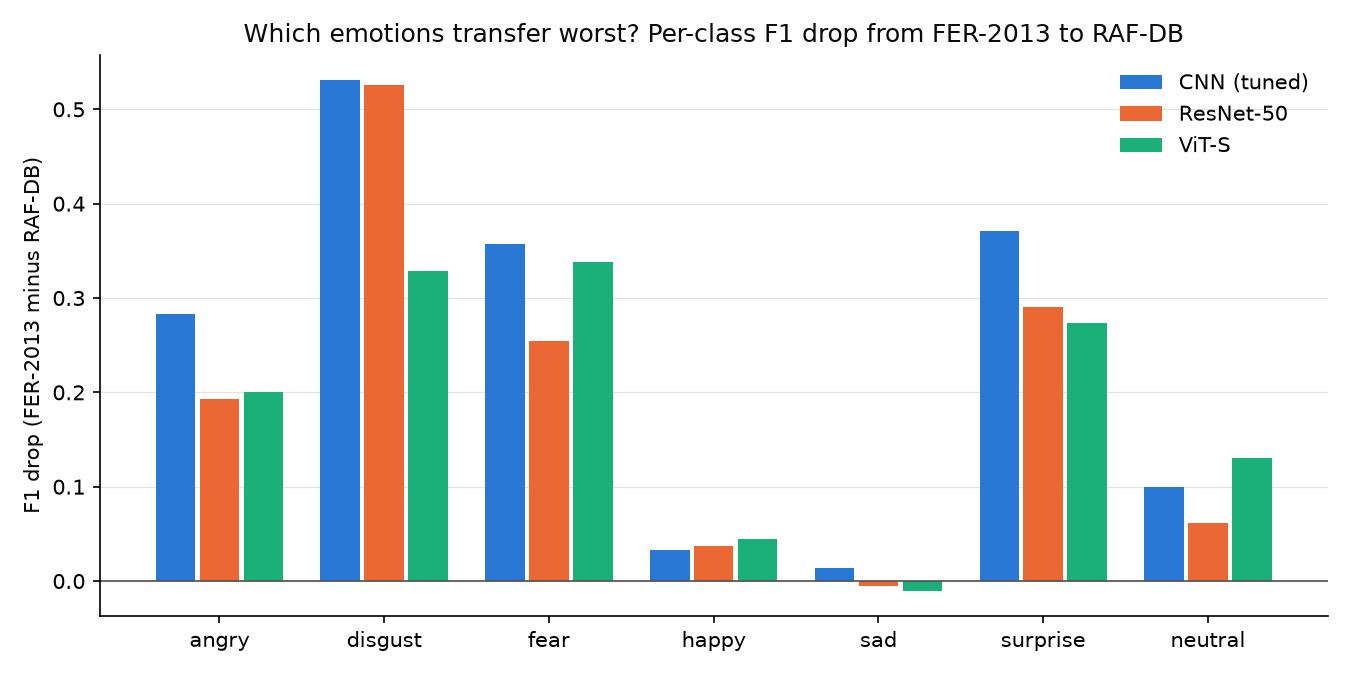
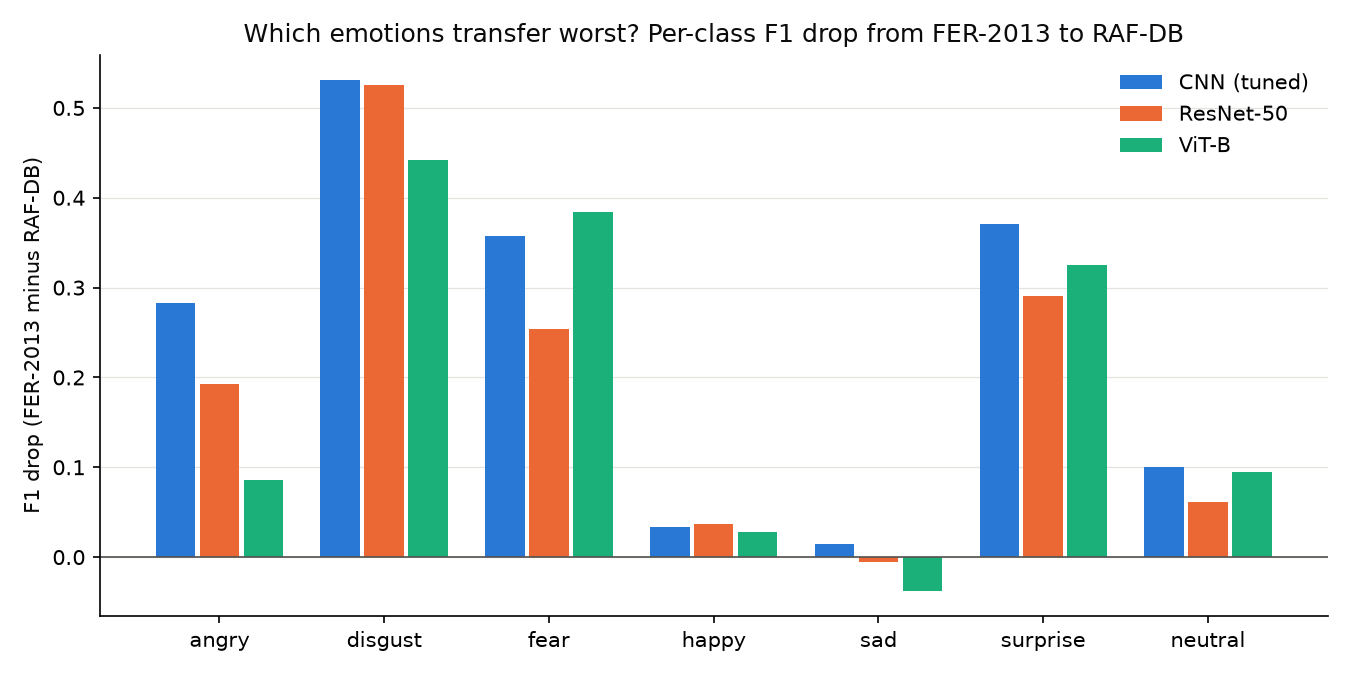
Switch to ViT-B as the selected ViT in README, intro and cross-dataset analysis
- cross_dataset: default focus is now cnn_best / resnet50 / vit; ViT-S lr 1e-4 and ViT-B added to the table
- README: ViT-B results row, in-domain tie and gender-gap bullets, links to final_comparison,
  tuning write-ups and demo; usage uses configs/vit.yaml; new config keys documented
- intro: all three families tuned and selected the same way; gender gap 7-10 points

diff --git a/src/cross_dataset.py b/src/cross_dataset.py
@@ -8,8 +8,8 @@ Reads each run's eval_fer2013/ and eval_rafdb/ (metrics.json, confusion.csv) and
   confusion_shift.csv       off-diagonal cells that grow the most from FER-2013 to RAF-DB
 
     python -m src.cross_dataset                      # default runs
-    python -m src.cross_dataset --runs results/cnn_best results/resnet50 results/vit_small \
-        --focus results/cnn_best results/resnet50 results/vit_small
+    python -m src.cross_dataset --runs results/cnn_best results/resnet50 results/vit \
+        --focus results/cnn_best results/resnet50 results/vit
 
 confusion.csv is written by src.evaluate. For older runs, --from-predictions builds it from a local
 predictions.csv first (the per-image file is never committed, only the aggregate counts).
@@ -28,12 +28,12 @@ from sklearn.metrics import confusion_matrix
 from .datasets import CLASSES
 
 DATASETS = ("fer2013", "rafdb")
-DEFAULT_RUNS = ["cnn", "cnn_best", "resnet", "resnet_224", "resnet_frozen", "resnet50", "vit_small"]
-DEFAULT_FOCUS = ["cnn_best", "resnet50", "vit_small"]
+DEFAULT_RUNS = ["cnn", "cnn_best", "resnet", "resnet_224", "resnet_frozen", "resnet50", "vit_small", "vit_small_lr1e4", "vit"]
+DEFAULT_FOCUS = ["cnn_best", "resnet50", "vit"]  # the three selected models
 LABELS = {
     "cnn": "CNN baseline", "cnn_best": "CNN (tuned)", "resnet": "ResNet-18",
     "resnet_224": "ResNet-18 224px", "resnet_frozen": "ResNet-18 frozen", "resnet50": "ResNet-50",
-    "vit_small": "ViT-S",
+    "vit_small": "ViT-S baseline", "vit_small_lr1e4": "ViT-S lr 1e-4", "vit": "ViT-B",
 }
 SERIES = ["#2a78d6", "#eb6834", "#1baf7a", "#6250d6"]  # fixed order: one colour per focus model
 INK, MUTED = "#0b0b0b", "#52514e"

diff --git a/results/cross_dataset_analysis.md b/results/cross_dataset_analysis.md
@@ -8,8 +8,8 @@ python -m src.cross_dataset
 ```
 
 which writes `results/cross_dataset/`: `cross_dataset.md` / `.csv` (overall table), `per_class.csv`,
-`per_class_drop.png`, `confusion_compare.png` and `confusion_shift.csv`. ViT rows and bars appear
-automatically once `results/vit_small/` has both evaluations.
+`per_class_drop.png`, `confusion_compare.png` and `confusion_shift.csv`. The three selected models are
+`cnn_best`, `resnet50` and `vit` (ViT-B), each chosen on FER-2013 validation macro-F1.
 
 ## 1. Overall: accuracy hides most of the transfer loss
 
@@ -21,21 +21,22 @@ automatically once `results/vit_small/` has both evaluations.
 | ResNet-18, 224px (`resnet_224`) | 70.3% / 0.675 / 69.6% | 61.3% / 0.465 / 49.9% | 9.0 | 0.210 | 19.6 |
 | ResNet-18, frozen backbone | 34.5% / 0.316 / 37.8% | 36.5% / 0.233 / 24.9% | -2.0 | 0.083 | 12.9 |
 | **ResNet-50 (`resnet50`)** | 70.1% / 0.687 / 68.7% | 64.2% / 0.493 / 53.5% | 5.9 | 0.194 | 15.2 |
-| ViT-S, untuned (`vit_small`) | 70.1% / 0.661 / 69.1% | 62.8% / 0.475 / 50.7% | 7.4 | 0.186 | 18.4 |
+| ViT-S baseline (`vit_small`) | 70.1% / 0.661 / 69.1% | 62.8% / 0.475 / 50.7% | 7.4 | 0.186 | 18.4 |
+| ViT-S, lr 1e-4 (`vit_small_lr1e4`) | 71.1% / 0.682 / 70.0% | 63.8% / 0.485 / 52.3% | 7.3 | 0.197 | 17.7 |
+| **ViT-B (`vit`)** | 70.7% / 0.679 / 69.7% | 64.7% / 0.490 / 52.3% | 6.0 | 0.189 | 17.4 |
 
-Bold rows are the configurations selected on FER-2013 validation macro-F1; ViT-S is a single untuned
-baseline run. Balanced accuracy is the mean per-class recall.
+Bold rows are the configurations selected on FER-2013 validation macro-F1 (`results/cnn_tuning.md`,
+`resnet_tuning.md`, `vit_tuning.md`). Balanced accuracy is the mean per-class recall.
 
 - **Accuracy understates the loss.** RAF-DB's test set is 39% happy, and happy is the one class that
   transfers almost perfectly (section 2). Measured by balanced accuracy, every trained model loses
   15-22 points, not the 2.5-9 points accuracy suggests. Even the CNN baseline, whose accuracy drops
   only 2.5 points, loses 16.5 points of balanced accuracy.
-- **Of the two selected models, ResNet-50 transfers better** on every measure (balanced-accuracy drop
-  15.2 vs 21.7 points). The untuned CNN baseline transfers about as well (16.5), so this is not a clean
-  "bigger pretrained model transfers better" result (see `report/results_and_discussion.md`).
-- **ViT-S sits in between** (balanced-accuracy drop 18.4): it matches ResNet-50 on FER-2013 accuracy but
-  scores lower on RAF-DB and loses more balanced accuracy (its macro-F1 drop, 0.186, is slightly smaller
-  than ResNet-50's 0.194). With one untuned run, this does not show how a tuned ViT would compare.
+- **The two pretrained models transfer better than the tuned CNN.** Among the selected models, ResNet-50
+  and ViT-B lose 15.2 and 17.4 points of balanced accuracy, against 21.7 for the CNN, and reach RAF-DB
+  macro-F1 0.493 and 0.490 against 0.443. ResNet-50 and ViT-B are within noise of each other. The
+  untuned CNN baseline transfers about as well as either (16.5), so this is not a clean "pretraining
+  transfers better" result: tuning the CNN on FER-2013 is what hurt it (see `report/results_and_discussion.md`).
 - The frozen-backbone model's small drop reflects that it is weak on both datasets, not that it transfers well.
 
 ## 2. Which emotions transfer worst?
@@ -44,29 +45,29 @@ baseline run. Balanced accuracy is the mean per-class recall.
 
 Per-class F1, FER-2013 -> RAF-DB (change in brackets):
 
-| Emotion | RAF-DB n | CNN, tuned | ResNet-50 | ViT-S (untuned) |
+| Emotion | RAF-DB n | CNN, tuned | ResNet-50 | ViT-B |
 |---|---|---|---|---|
-| angry | 162 | 0.64 -> 0.36 (-0.28) | 0.64 -> 0.45 (-0.19) | 0.62 -> 0.42 (-0.20) |
-| disgust | 160 | 0.66 -> 0.13 (-0.53) | 0.68 -> 0.16 (-0.53) | 0.51 -> 0.18 (-0.33) |
-| fear | 74 | 0.55 -> 0.19 (-0.36) | 0.54 -> 0.29 (-0.25) | 0.53 -> 0.19 (-0.34) |
-| happy | 1185 | 0.88 -> 0.85 (-0.03) | 0.88 -> 0.85 (-0.04) | 0.89 -> 0.85 (-0.04) |
-| sad | 478 | 0.57 -> 0.56 (-0.01) | 0.58 -> 0.59 (+0.01) | 0.58 -> 0.59 (+0.01) |
-| surprise | 329 | 0.81 -> 0.44 (-0.37) | 0.81 -> 0.52 (-0.29) | 0.81 -> 0.54 (-0.27) |
-| neutral | 680 | 0.67 -> 0.57 (-0.10) | 0.67 -> 0.61 (-0.06) | 0.68 -> 0.55 (-0.13) |
+| angry | 162 | 0.64 -> 0.36 (-0.28) | 0.64 -> 0.45 (-0.19) | 0.63 -> 0.55 (-0.09) |
+| disgust | 160 | 0.66 -> 0.13 (-0.53) | 0.68 -> 0.16 (-0.53) | 0.58 -> 0.14 (-0.44) |
+| fear | 74 | 0.55 -> 0.19 (-0.36) | 0.54 -> 0.29 (-0.25) | 0.57 -> 0.19 (-0.38) |
+| happy | 1185 | 0.88 -> 0.85 (-0.03) | 0.88 -> 0.85 (-0.04) | 0.90 -> 0.87 (-0.03) |
+| sad | 478 | 0.57 -> 0.56 (-0.01) | 0.58 -> 0.59 (+0.01) | 0.57 -> 0.60 (+0.04) |
+| surprise | 329 | 0.81 -> 0.44 (-0.37) | 0.81 -> 0.52 (-0.29) | 0.81 -> 0.49 (-0.33) |
+| neutral | 680 | 0.67 -> 0.57 (-0.10) | 0.67 -> 0.61 (-0.06) | 0.69 -> 0.60 (-0.10) |
 
-- **Happy, sad and neutral transfer** (F1 change of 0.10 or less for the two selected models). These are the three
+- **Happy, sad and neutral transfer** (F1 change of 0.10 or less for all three selected models). These are the three
   largest RAF-DB classes, which is why accuracy holds up.
-- **Disgust collapses** in both selected models (F1 -0.53; recall 0.70 -> 0.10 for the CNN, 0.68 -> 0.10 for
-  ResNet-50). It has the lowest RAF-DB F1 of any emotion for every fully trained model, and the largest
-  drop for all of them except ViT-S, where fear drops slightly more (-0.34 vs -0.33). (The frozen-backbone
-  run is weak everywhere and follows neither pattern.)
-- **Surprise, fear and angry also lose 0.19-0.37 F1.** ResNet-50 loses less than the CNN on each of
-  them; that, not happy/sad/neutral, is where its better transfer comes from.
-- **ViT-S follows the same pattern.** Its smaller disgust drop (-0.33) is because it starts lower on
-  FER-2013 (0.51); on RAF-DB it ends at about the same level (0.18). Its neutral F1 drop (-0.13) is the
-  largest of any model. ViT-S is not in the confusion comparison below until its `confusion.csv`
-  files are committed (`python -m src.cross_dataset --from-predictions` on the machine with its
-  `predictions.csv`).
+- **Disgust collapses** in all three selected models (F1 -0.44 to -0.53; recall falls from about 0.70 to
+  0.10 in each). It has the lowest RAF-DB F1 of any emotion for every fully trained model, and the largest
+  drop for all of them except the ViT-S baseline, where fear drops slightly more (-0.34 vs -0.33). (The
+  frozen-backbone run is weak everywhere and follows neither pattern.)
+- **Surprise and fear also lose 0.25-0.38 F1 in every selected model.** Angry is where the models differ
+  most: ViT-B keeps it (-0.09, precision 0.45 on RAF-DB), ResNet-50 loses 0.19 and the CNN 0.28. The
+  pretrained models' better transfer comes from these minority emotions, not from happy, sad and neutral.
+- ViT-B has the largest fear drop of the three (-0.38): its FER-2013 fear recall is the highest (0.62)
+  but falls to 0.39 on RAF-DB, below ResNet-50, which keeps fear recall at 0.50. ViT-B is not in the confusion comparison
+  below until its `confusion.csv` files are committed (`python -m src.cross_dataset --from-predictions`
+  on the machine with its `predictions.csv`).
 
 ## 3. How the errors change (confusion matrices)
 
@@ -87,7 +88,7 @@ confusions that become more common on RAF-DB. The largest increases (`confusion_
    (about 0.2) and grows on RAF-DB. FER-2013 has only 436 disgust images in its official training set (392 after our validation split, 1.5%), so the
    models' notion of disgust is narrow, and RAF-DB's disgust faces mostly fall outside it.
 2. **Surprise is under-predicted, not mislabelled at random.** On RAF-DB, surprise recall falls to
-   0.29 (CNN) / 0.38 (ResNet-50) while precision stays high (0.91 / 0.83): when the models say
+   0.29 (CNN) / 0.38 (ResNet-50) / 0.33 (ViT-B) while precision stays high (0.91 / 0.83 / 0.94): when the models say
    "surprise" they are usually right, but most surprised faces are called neutral, angry or fear.
    The CNN predicts surprise only 105 times, against 329 truly surprised faces.
 3. **The CNN over-predicts anger on RAF-DB.** It labels 484 test images angry against 162 true angry

diff --git a/README.md b/README.md
@@ -22,7 +22,7 @@ Put the datasets in `data/` as described in [data/README.md](data/README.md).
 # 1. train: results/<run-name>/ gets config.yaml, history.csv, best.pt
 python -m src.train --config configs/cnn_best.yaml --run-name cnn_best
 python -m src.train --config configs/resnet50.yaml --run-name resnet50
-python -m src.train --config configs/vit_small.yaml --run-name vit_small
+python -m src.train --config configs/vit.yaml --run-name vit
 
 # 2. evaluate: in-domain, then cross-dataset + subgroup audit
 python -m src.evaluate --run results/cnn_best --dataset fer2013
@@ -30,7 +30,7 @@ python -m src.evaluate --run results/cnn_best --dataset rafdb
 
 # 3. compare models: cross-dataset table, per-emotion drop, confusion shift; bias gap table
 python -m src.cross_dataset
-python -m src.bias_report --runs results/cnn_best results/resnet50 results/vit_small
+python -m src.bias_report --runs results/cnn_best results/resnet50 results/vit
 
 # 4. saliency maps
 python -m src.explain --run results/cnn_best --dataset fer2013
@@ -55,18 +55,21 @@ Optional keys (defaults reproduce the baselines):
 | `model.dropout` | `0.4` | CNN classifier dropout |
 | `model.block_dropout` | `0.25` | CNN dropout after each conv block |
 | `train.class_weights` | `true` | inverse-frequency class weights in the loss |
+| `model.freeze_backbone` | `false` | ResNet: train only the new classifier head |
+| `model.freeze_blocks` | `0` | ViT: freeze the patch embedding and the first n transformer blocks |
+| `train.layer_decay` | off | ViT: layer-wise LR decay (earlier blocks get a smaller LR) |
 
 ## Results
 
 Trained on FER-2013, tested on the FER-2013 test set (in-domain) and the RAF-DB test set (cross-dataset,
-never used for training or model selection). The CNN and ResNet rows are the configurations selected on
-FER-2013 validation macro-F1; ViT-S is a single untuned baseline run, so its row is indicative.
+never used for training or model selection). Each row is the configuration selected on FER-2013
+validation macro-F1 from that family's tuning runs.
 
 | Model | FER-2013 acc / macro-F1 | RAF-DB acc / macro-F1 | Balanced-acc drop | Gender gap (F-M) | Age gap |
 |---|---|---|---|---|---|
 | CNN from scratch (`cnn_best`) | 70.2% / 0.684 | 61.2% / 0.443 | 21.7 pts | 10.4 pts | 15.2 pts |
 | ResNet-50, ImageNet-pretrained (`resnet50`) | 70.1% / 0.687 | 64.2% / 0.493 | 15.2 pts | 8.1 pts | 11.7 pts |
-| ViT-S, ImageNet-pretrained, untuned (`vit_small`) | 70.1% / 0.661 | 62.8% / 0.475 | 18.4 pts | 5.4 pts | 14.6 pts |
+| ViT-B, ImageNet-pretrained (`vit`) | 70.7% / 0.679 | 64.7% / 0.490 | 17.4 pts | 7.3 pts | 12.7 pts |
 
 - **Cross-dataset transfer is the main weakness.** Balanced accuracy (mean per-class recall) falls by
   15-22 points on RAF-DB; plain accuracy hides much of this because RAF-DB is 39% happy, the class that
@@ -74,13 +77,19 @@ FER-2013 validation macro-F1; ViT-S is a single untuned baseline run, so its row
   fear and anger also drop sharply. Details: [results/cross_dataset_analysis.md](results/cross_dataset_analysis.md).
 - **In-domain gains did not transfer.** Tuning the CNN raised FER-2013 accuracy from 67.6% to 70.2% but
   lowered RAF-DB accuracy from 65.1% to 61.2% ([results/cnn_tuning.md](results/cnn_tuning.md)).
-- **Every model is less accurate on men than on women** (8-10 points for the CNN and ResNets, 5.4 for
-  ViT-S; all p < 0.01). Fine-tuning on RAF-DB
+- **In-domain the three models are tied** (70.1-70.7% accuracy, macro-F1 0.679-0.687, one seed each).
+  The two pretrained models transfer better than the tuned CNN, but the untuned CNN baseline transfers
+  about as well as either.
+- **Every model is less accurate on men than on women** (7-10 points for the three selected models,
+  p < 0.001). Fine-tuning on RAF-DB
   halves the gap; subgroup-balanced sampling adds little on top
   ([results/resnet_mitigation.md](results/resnet_mitigation.md)).
 
 Gaps are best-minus-worst group accuracy on RAF-DB; see [results/bias_report/](results/bias_report/) for
-intervals and p-values, and [results/resnet_tuning.md](results/resnet_tuning.md) for the ResNet runs.
+intervals and p-values. All runs side by side: [results/final_comparison.csv](results/final_comparison.csv)
+([notebooks/02_results.ipynb](notebooks/02_results.ipynb)); tuning: [CNN](results/cnn_tuning.md),
+[ResNet](results/resnet_tuning.md), [ViT](results/vit_tuning.md). To try a model on your own face photo, see
+[notebooks/03_demo.ipynb](notebooks/03_demo.ipynb).
 FER-2013 test numbers are slightly optimistic because about 7% of its test images also appear in training.
 
 ## Labels

diff --git a/results/cross_dataset/cross_dataset.md b/results/cross_dataset/cross_dataset.md
@@ -12,16 +12,18 @@ Balanced accuracy is the mean per-class recall; unlike accuracy it is not inflat
 | ResNet-18 224px (`resnet_224`) | 70.3% / 0.675 / 69.6% | 61.3% / 0.465 / 49.9% | 9.0 | 0.210 | 19.6 |
 | ResNet-18 frozen (`resnet_frozen`) | 34.5% / 0.316 / 37.8% | 36.5% / 0.233 / 24.9% | -2.0 | 0.083 | 12.9 |
 | ResNet-50 (`resnet50`) | 70.1% / 0.687 / 68.7% | 64.2% / 0.493 / 53.5% | 5.9 | 0.194 | 15.2 |
-| ViT-S (`vit_small`) | 70.1% / 0.661 / 69.1% | 62.8% / 0.475 / 50.7% | 7.4 | 0.186 | 18.4 |
+| ViT-S baseline (`vit_small`) | 70.1% / 0.661 / 69.1% | 62.8% / 0.475 / 50.7% | 7.4 | 0.186 | 18.4 |
+| ViT-S lr 1e-4 (`vit_small_lr1e4`) | 71.1% / 0.682 / 70.0% | 63.8% / 0.485 / 52.3% | 7.3 | 0.197 | 17.7 |
+| ViT-B (`vit`) | 70.7% / 0.679 / 69.7% | 64.7% / 0.490 / 52.3% | 6.0 | 0.189 | 17.4 |
 
 ## Per-emotion F1 (FER-2013 -> RAF-DB)
 
-| Emotion | RAF-DB n | CNN (tuned) | ResNet-50 | ViT-S |
+| Emotion | RAF-DB n | CNN (tuned) | ResNet-50 | ViT-B |
 |---|---|---|---|---|
-| angry | 162 | 0.64 -> 0.36 (-0.28) | 0.64 -> 0.45 (-0.19) | 0.62 -> 0.42 (-0.20) |
-| disgust | 160 | 0.66 -> 0.13 (-0.53) | 0.68 -> 0.16 (-0.53) | 0.51 -> 0.18 (-0.33) |
-| fear | 74 | 0.55 -> 0.19 (-0.36) | 0.54 -> 0.29 (-0.25) | 0.53 -> 0.19 (-0.34) |
-| happy | 1185 | 0.88 -> 0.85 (-0.03) | 0.88 -> 0.85 (-0.04) | 0.89 -> 0.85 (-0.04) |
-| sad | 478 | 0.57 -> 0.56 (-0.01) | 0.58 -> 0.59 (+0.01) | 0.58 -> 0.59 (+0.01) |
-| surprise | 329 | 0.81 -> 0.44 (-0.37) | 0.81 -> 0.52 (-0.29) | 0.81 -> 0.54 (-0.27) |
-| neutral | 680 | 0.67 -> 0.57 (-0.10) | 0.67 -> 0.61 (-0.06) | 0.68 -> 0.55 (-0.13) |
+| angry | 162 | 0.64 -> 0.36 (-0.28) | 0.64 -> 0.45 (-0.19) | 0.63 -> 0.55 (-0.09) |
+| disgust | 160 | 0.66 -> 0.13 (-0.53) | 0.68 -> 0.16 (-0.53) | 0.58 -> 0.14 (-0.44) |
+| fear | 74 | 0.55 -> 0.19 (-0.36) | 0.54 -> 0.29 (-0.25) | 0.57 -> 0.19 (-0.38) |
+| happy | 1185 | 0.88 -> 0.85 (-0.03) | 0.88 -> 0.85 (-0.04) | 0.90 -> 0.87 (-0.03) |
+| sad | 478 | 0.57 -> 0.56 (-0.01) | 0.58 -> 0.59 (+0.01) | 0.57 -> 0.60 (+0.04) |
+| surprise | 329 | 0.81 -> 0.44 (-0.37) | 0.81 -> 0.52 (-0.29) | 0.81 -> 0.49 (-0.33) |
+| neutral | 680 | 0.67 -> 0.57 (-0.10) | 0.67 -> 0.61 (-0.06) | 0.69 -> 0.60 (-0.10) |

diff --git a/report/introduction_related_work_data.md b/report/introduction_related_work_data.md
@@ -24,19 +24,20 @@ scratch and two ImageNet-pretrained architectures. We study them along three axe
 3. **Bias.** Using RAF-DB's gender, race and age annotations, do accuracy gaps between demographic
    groups exist, are they statistically supported, and does subgroup-balanced fine-tuning reduce them?
 
-We also use Grad-CAM [12] to inspect which facial regions each model relies on. The CNN and ResNet
-configurations were tuned on FER-2013 validation data; the ViT is a single untuned baseline run, so
-comparisons involving it are indicative rather than like-for-like.
+We also use Grad-CAM [12] to inspect which facial regions each model relies on. For each family we run a
+small set of tuning experiments and select one configuration by FER-2013 validation macro-F1, so the three
+final models (a tuned CNN, ResNet-50 and ViT-B) are compared on the same footing.
 
 **Contributions.**
 - One configuration-driven pipeline (`src/train.py`, `src/evaluate.py`) in which the three model
   families differ only in their YAML config, so the comparisons are not artefacts of different code.
 - A cross-dataset evaluation showing that plain accuracy hides most of the transfer loss. Balanced
   accuracy falls by 15-22 points on RAF-DB, against 2.5-9 points for plain accuracy, and the loss is
-  concentrated in disgust, surprise, fear and anger. We also find that tuning for in-domain accuracy
+  concentrated in disgust, surprise and fear. We also find that tuning for in-domain accuracy
   can make transfer worse.
 - A subgroup audit with bootstrap confidence intervals and significance tests. It finds an accuracy
-  gap between women and men in every model (8-10 points for the CNN and ResNets, 5.4 for ViT-S). A controlled mitigation
+  gap between women and men in every model we trained (7-10 points for the three selected models,
+  p < 0.001). A controlled mitigation
   experiment shows that fine-tuning on target-domain data, not balanced sampling, is what narrows it.
 
 ## 2. Related work
